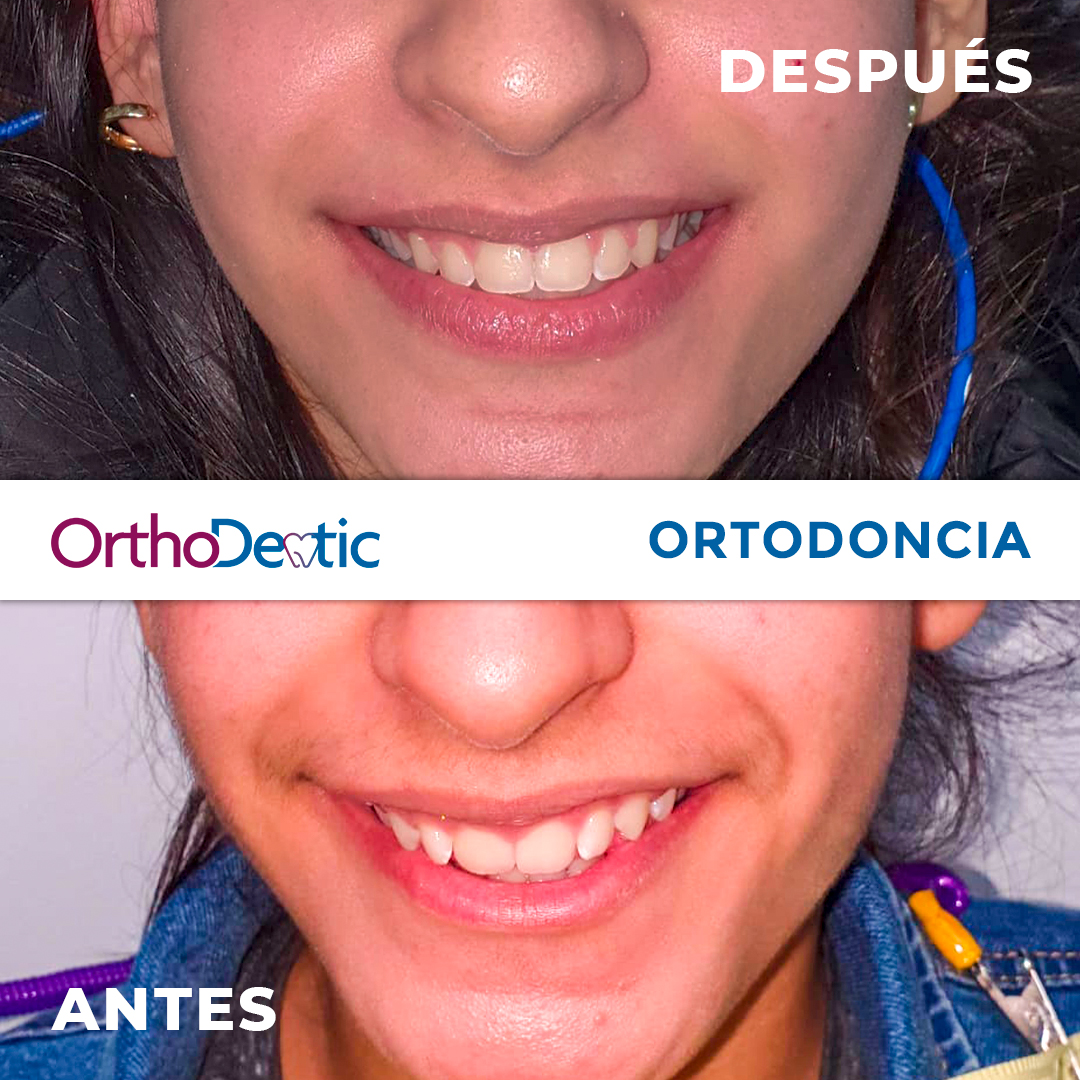
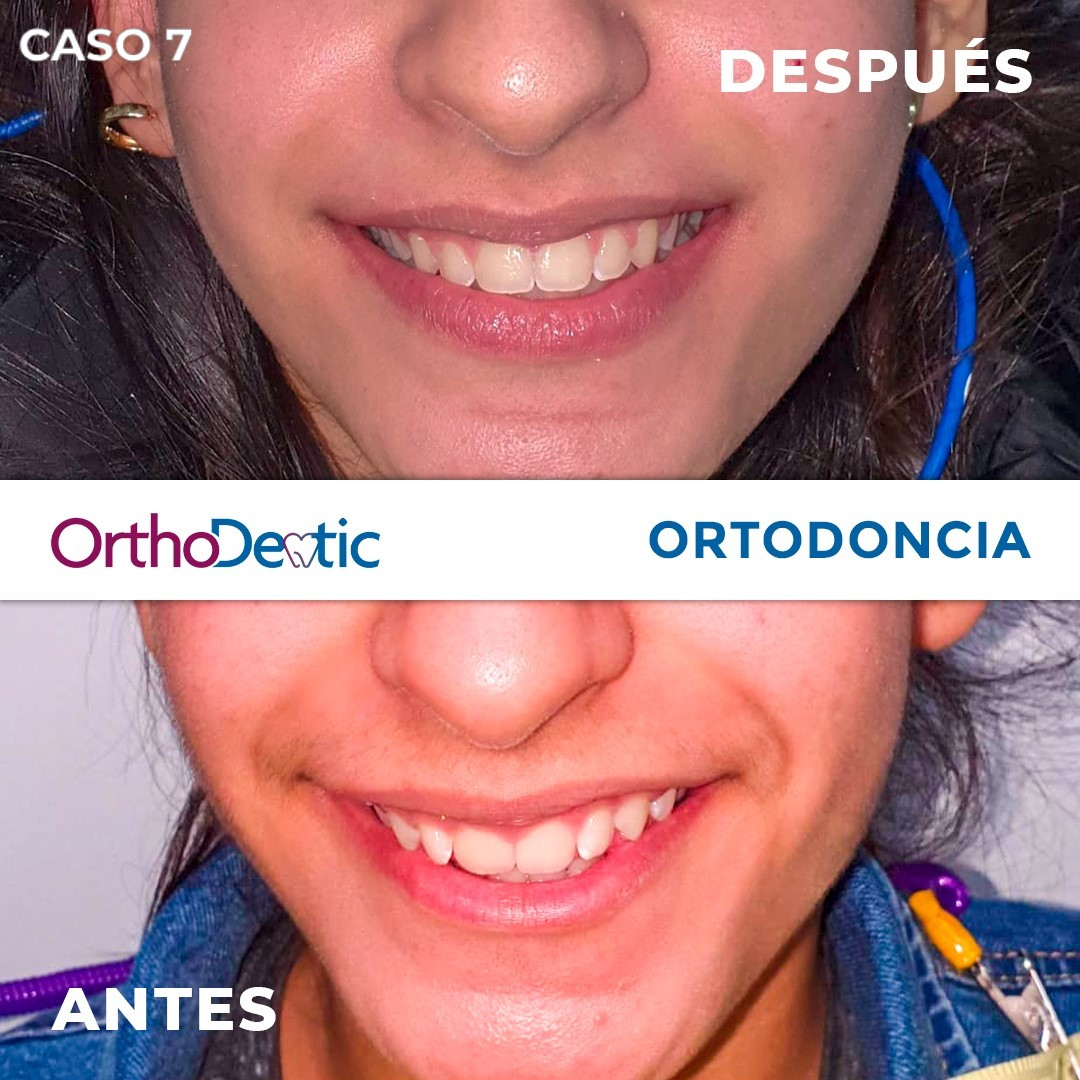
Nuevos casos

diff --git a/tratamientos.html b/tratamientos.html
@@ -180,16 +180,19 @@
       <div class="swiper mySwiper">
         <div class="swiper-wrapper">
           <div class="swiper-slide">
-            <img src="imagenes/caso-1.jpg" alt="" />
+            <img src="imagenes/ORTO4.png" alt="" />
           </div>
           <div class="swiper-slide">
-            <img src="imagenes/caso-2.jpg" alt="" />
+            <img src="imagenes/caso-5.png" alt="" />
           </div>
           <div class="swiper-slide">
-            <img src="imagenes/caso-3.jpg" alt="" />
+            <img src="imagenes/caso-6.png" alt="" />
           </div>
           <div class="swiper-slide">
-            <img src="imagenes/caso-4.jpg" alt="" />
+            <img src="imagenes/caso-7.png" alt="" />
+          </div>
+          <div class="swiper-slide">
+            <img src="imagenes/caso-8.png" alt="" />
           </div>
           <div class="swiper-slide">
             <img src="imagenes/caso-1.jpg" alt="" />

diff --git a/css/styles.css b/css/styles.css
@@ -1140,6 +1140,7 @@ footer {
 
 .parallax_extra {
   background-image: url(../imagenes/parallax.png);
+  background-size: cover;
   background-position: center;
   height: 400px;
   margin-top: -20px;
@@ -1464,6 +1465,7 @@ footer {
 .parallax_uno_contacto {
   background-image: url(../imagenes/parallax.png);
   background-position: center;
+  background-size: cover;
   height: 400px;
   margin-top: 10px;
   background-attachment: fixed;

diff --git a/promociones.html b/promociones.html
@@ -255,7 +255,7 @@
             <div class="location-image">
               <a href="#">
                 <img
-                  src="imagenes/nuevasFotos/DRA.MONICA/DSC_5050.JPG"
+                  src="imagenes/galeria_dos.png"
                   alt="san francisco"
                 />
               </a>
